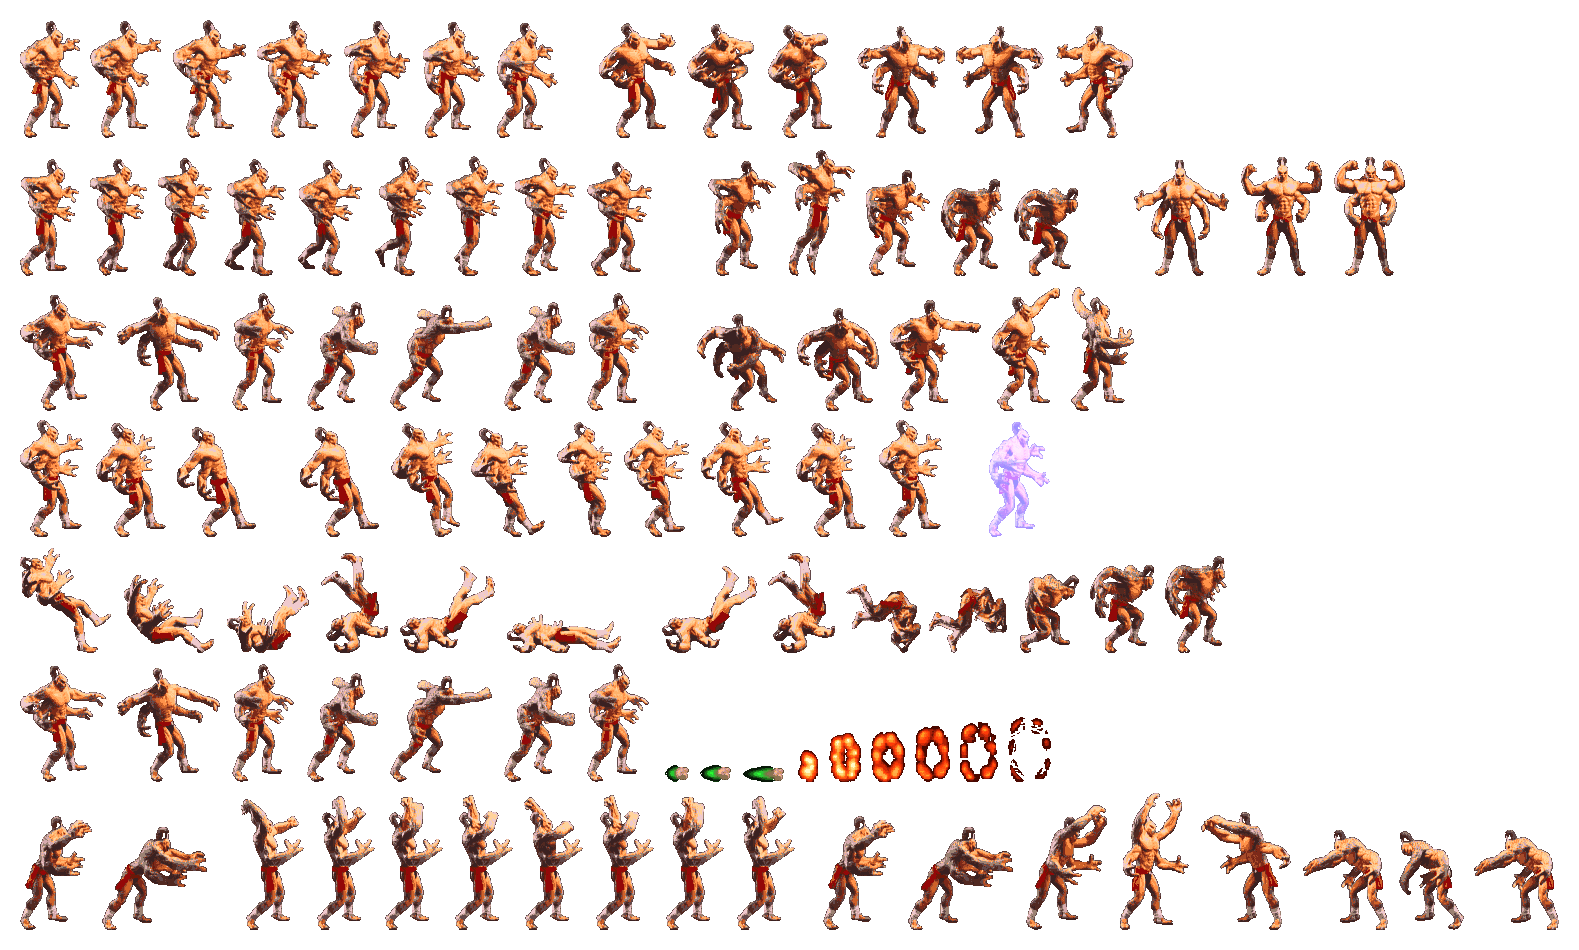
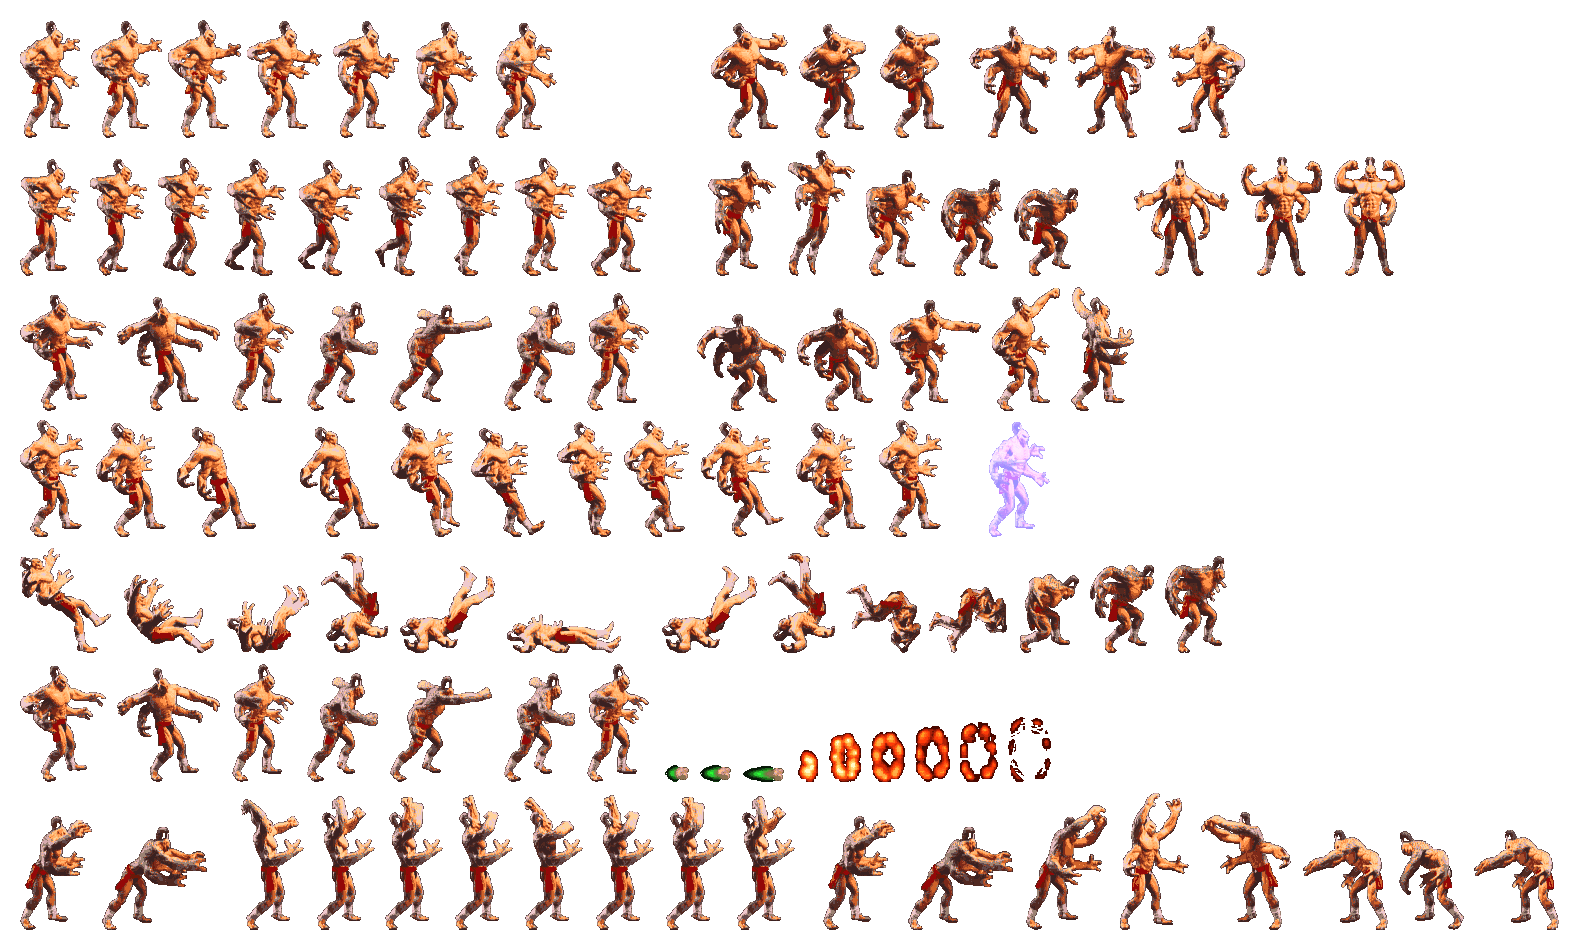
Se suben cambios en el Sprite, la animación es mejor ahora.

Changed region(s): [[0.0621, 0.0305, 0.8068, 0.1526]]

diff --git a/MortalFighter/Sprites.cpp b/MortalFighter/Sprites.cpp
@@ -18,13 +18,20 @@ Sprite::Sprite(){
 	this->QuietoDer = new std::vector<SDL_Rect*>();
 
 	//Quieto
-	this->QuietoDer->push_back(crearCuadro(20, 21, 60, 117));
-	this->QuietoDer->push_back(crearCuadro(90, 21, 71, 117));
-	this->QuietoDer->push_back(crearCuadro(173, 20, 73, 118));
-	this->QuietoDer->push_back(crearCuadro(257, 21, 75, 117));
-	this->QuietoDer->push_back(crearCuadro(344, 21, 66, 117));
-	this->QuietoDer->push_back(crearCuadro(423, 22, 62, 116));
-	this->QuietoDer->push_back(crearCuadro(497, 23, 61, 115));
+	this->QuietoDer->push_back(crearCuadro(7, 20, 78, 117));
+	this->QuietoDer->push_back(crearCuadro(7, 20, 78, 117));
+	this->QuietoDer->push_back(crearCuadro(85, 20, 78, 117));
+	this->QuietoDer->push_back(crearCuadro(85, 20, 78, 117));
+	this->QuietoDer->push_back(crearCuadro(164, 20, 78, 117));
+	this->QuietoDer->push_back(crearCuadro(164, 20, 78, 117));
+	this->QuietoDer->push_back(crearCuadro(244, 20, 78, 117));
+	this->QuietoDer->push_back(crearCuadro(244, 20, 78, 117));
+	this->QuietoDer->push_back(crearCuadro(323, 20, 78, 117));
+	this->QuietoDer->push_back(crearCuadro(323, 20, 78, 117));
+	this->QuietoDer->push_back(crearCuadro(401, 20, 78, 117));
+	this->QuietoDer->push_back(crearCuadro(401, 20, 78, 117));
+	this->QuietoDer->push_back(crearCuadro(479, 20, 78, 117));
+	this->QuietoDer->push_back(crearCuadro(479, 20, 78, 117));
 
 	//caminar
 	this->CaminandoDer->push_back(crearCuadro(20, 159, 59, 117));

diff --git a/MortalFighter/Vista.cpp b/MortalFighter/Vista.cpp
@@ -132,11 +132,11 @@ void Vista::actualizar(MOV_TIPO movimiento, ESTADO estadoPersonaje){
 	listaDeCuadros = elSprite->listaDeCuadros(estadoPersonaje);
 	numeroDeCuadro++;
 
-	if ((numeroDeCuadro / (listaDeCuadros->size()))> (listaDeCuadros->size() - 1))
+	if ((4 * numeroDeCuadro / (listaDeCuadros->size()))> (listaDeCuadros->size() - 1))
 		numeroDeCuadro = 0;
 
 	//Renderizar el sprite
-		SDL_Rect* cuadroActual = listaDeCuadros->at(numeroDeCuadro / (listaDeCuadros->size()));
+		SDL_Rect* cuadroActual = listaDeCuadros->at(4*numeroDeCuadro / (listaDeCuadros->size()));
 		
 
 		//Se carga el personaje

diff --git a/MortalFighter/MortalFighter.cpp b/MortalFighter/MortalFighter.cpp
@@ -8,7 +8,6 @@
 //#include <windows.h>
 #include "Controlador.h"
 
-
 //int APIENTRY _tWinMain(HINSTANCE hInstance, HINSTANCE hPrevInstance, LPTSTR lpCmdLine, int nCmdShow)
 int _tmain(int argc, _TCHAR* argv[])
 {	
@@ -37,7 +36,7 @@ int _tmain(int argc, _TCHAR* argv[])
 
 			unaVista->actualizar(movimiento, Parser::getInstancia().getPersonaje().getEstado()); //Nescesita pasarle el personaje y su estado
 
-			SDL_Delay(30);
+			SDL_Delay(10);
 
 		}
 		delete unaVista;

diff --git a/MortalFighter/Mundo.h b/MortalFighter/Mundo.h
@@ -5,7 +5,7 @@
 #define SALTO_Y 400.0f
 #define SALTO_X 100.0f
 #define GRAVEDAD_Y -10.0f
-#define DISTANCIA 4.2f
+#define DISTANCIA 2.0f
 
 class Cuerpo;
 
